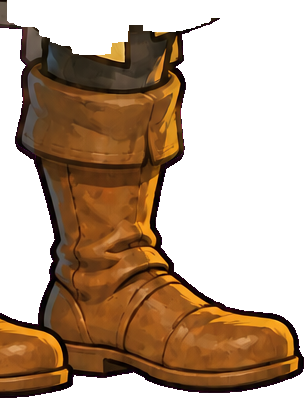
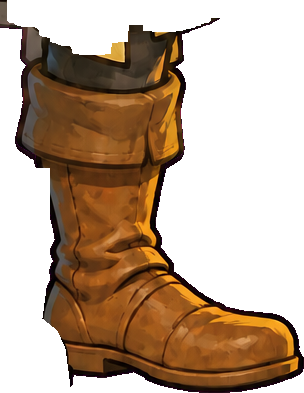
Walk rig: keep each toe on its own boot
The straight near/far leg split cut side-on toes that reach past split_x onto
the other shin. Below the boot shafts, grow each leg down through its foot
with the painted outline as the wall; outline pixels go to the nearer side.
Cleric_f's boots are painted as one blob, so it gets a hand-placed
foot_split line. Also fixes the clipped near toes on cleric_m and guard_m.

Claude-Session: https://claude.ai/code/session_01HkwWBTfXDpyz4Z2jcF2dJD

diff --git a/tools/anim_auto_rig.py b/tools/anim_auto_rig.py
@@ -30,7 +30,7 @@ def register(full, armless):
     return best[1], best[2]
 
 
-def split_auto(front, armless, belt, hem, knee_y, neck_xy, shift=None):
+def split_auto(front, armless, belt, hem, knee_y, neck_xy, shift=None, foot_split=None):
     H, W = front.shape[:2]
     yy, xx = np.mgrid[0:H, 0:W]
     vis = front[..., 3] > 0
@@ -76,6 +76,25 @@ def split_auto(front, armless, belt, hem, knee_y, neck_xy, shift=None):
         split_x = int(np.median(gx))
     near = xx < split_x
     knee = _seam(front, vis, knee_y, 45, 45)[None, :]
+    # feet: a straight split cuts a side-on toe that reaches past split_x onto the other leg,
+    # so split the upright boot shafts by x, then grow each leg down through its own foot
+    # where the boots touch, the painted outline between them is the wall the growth stops at
+    foot = legs & (yy >= knee_y + 200)
+    inner = foot & (_hsv(front)[2] > 0.07)
+    grow_n, grow_f = inner & near & (yy < knee_y + 210), inner & ~near & (yy < knee_y + 210)
+    for _ in range(600):
+        nn = ndimage.binary_dilation(grow_n) & inner & ~grow_f
+        ff = ndimage.binary_dilation(grow_f) & inner & ~nn
+        if (nn == grow_n).all() and (ff == grow_f).all():
+            break
+        grow_n, grow_f = nn, ff
+    # outline pixels go to the nearer grown side
+    dn = ndimage.distance_transform_edt(~grow_n)
+    df = ndimage.distance_transform_edt(~grow_f)
+    near = np.where(foot, dn <= df, near)
+    if foot_split:   # hand-placed [x, y] cut line where the boots are painted as one blob
+        py, px = zip(*sorted((y, x) for x, y in foot_split))
+        near = np.where(foot, xx < np.interp(yy, py, px), near)
     robe = hem >= knee_y
     thigh_zone = vis & (yy >= hem_seam - 60) & ~arms
     pieces_m = {

diff --git a/tools/build_preview.py b/tools/build_preview.py
@@ -545,7 +545,7 @@ def main():
                 from anim_auto_rig import split_auto
                 armless = keyed(ROOT / cfg["armless"])
                 pieces, anchors, pivots = split_auto(front, armless, cfg["belt"], cfg["hem"], cfg["knee"],
-                                                     [skull(a)[1], TEMPLATES[tpl]["cut"]], cfg.get("shift"))
+                                                     [skull(a)[1], TEMPLATES[tpl]["cut"]], cfg.get("shift"), cfg.get("foot_split"))
             else:
                 pieces, anchors = anim_rig.split(front, ANIM["templates"][tpl], cfg["hem"], cfg["belt"],
                                                  cfg.get("leg_seam"), cfg.get("keep_torso"))
